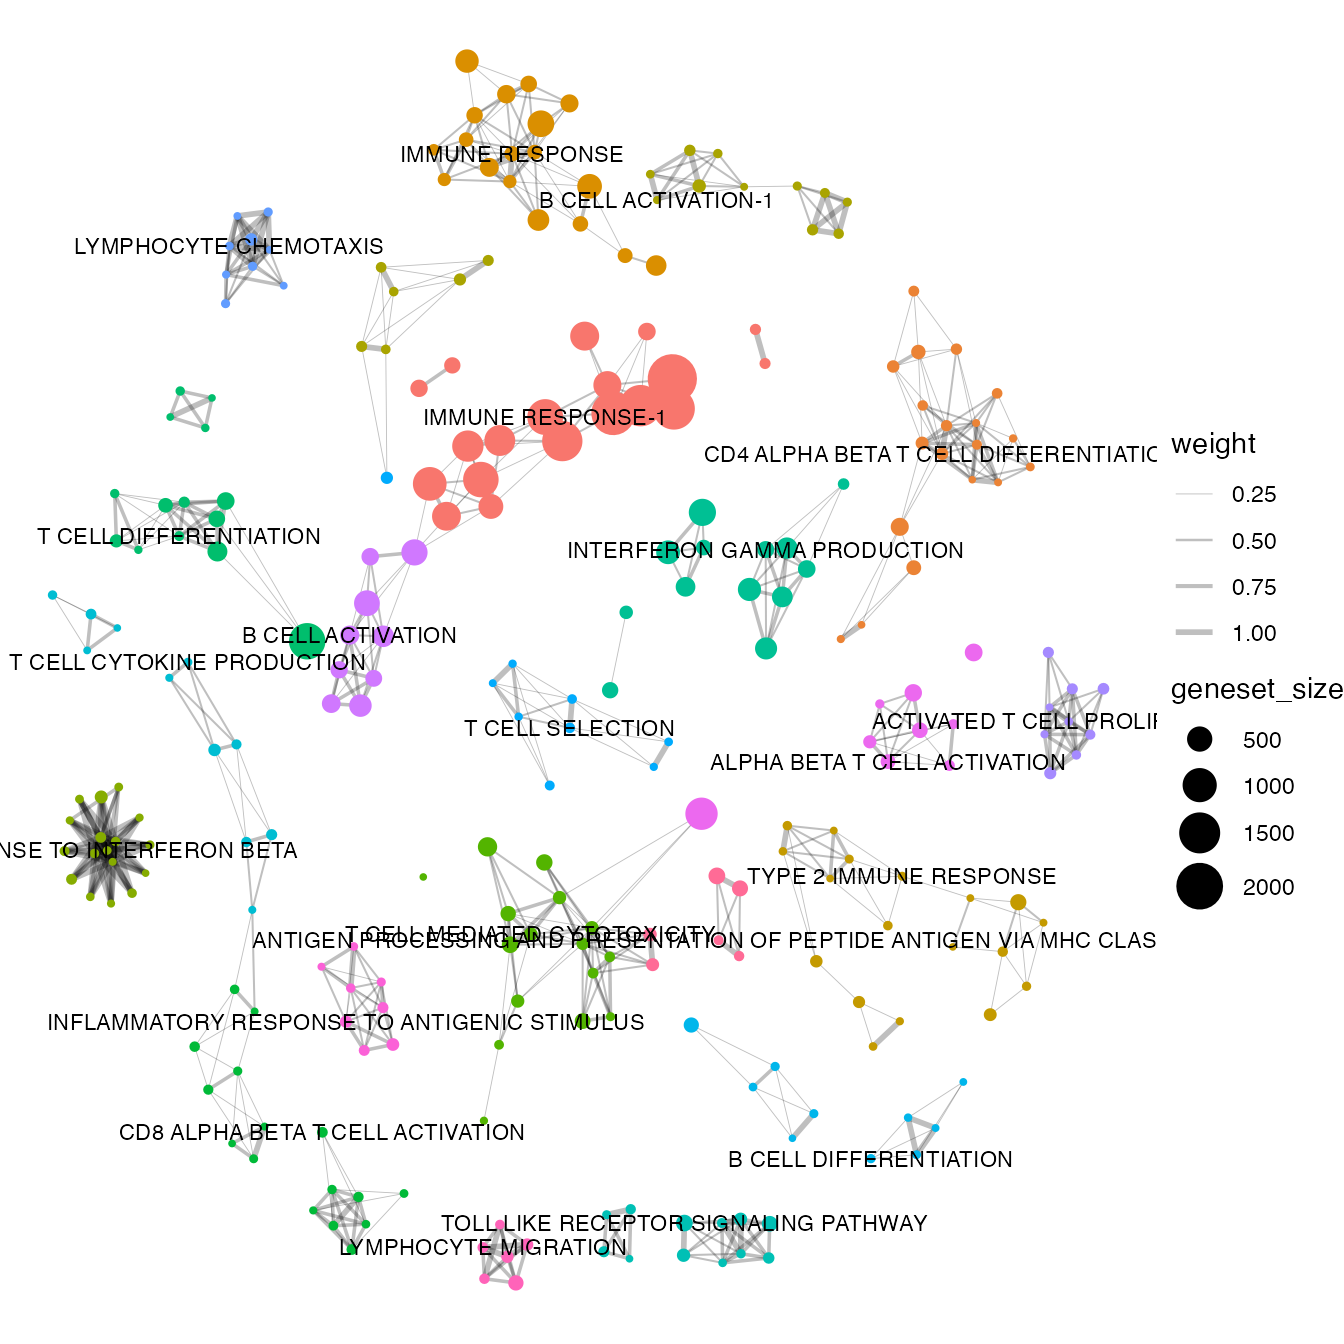
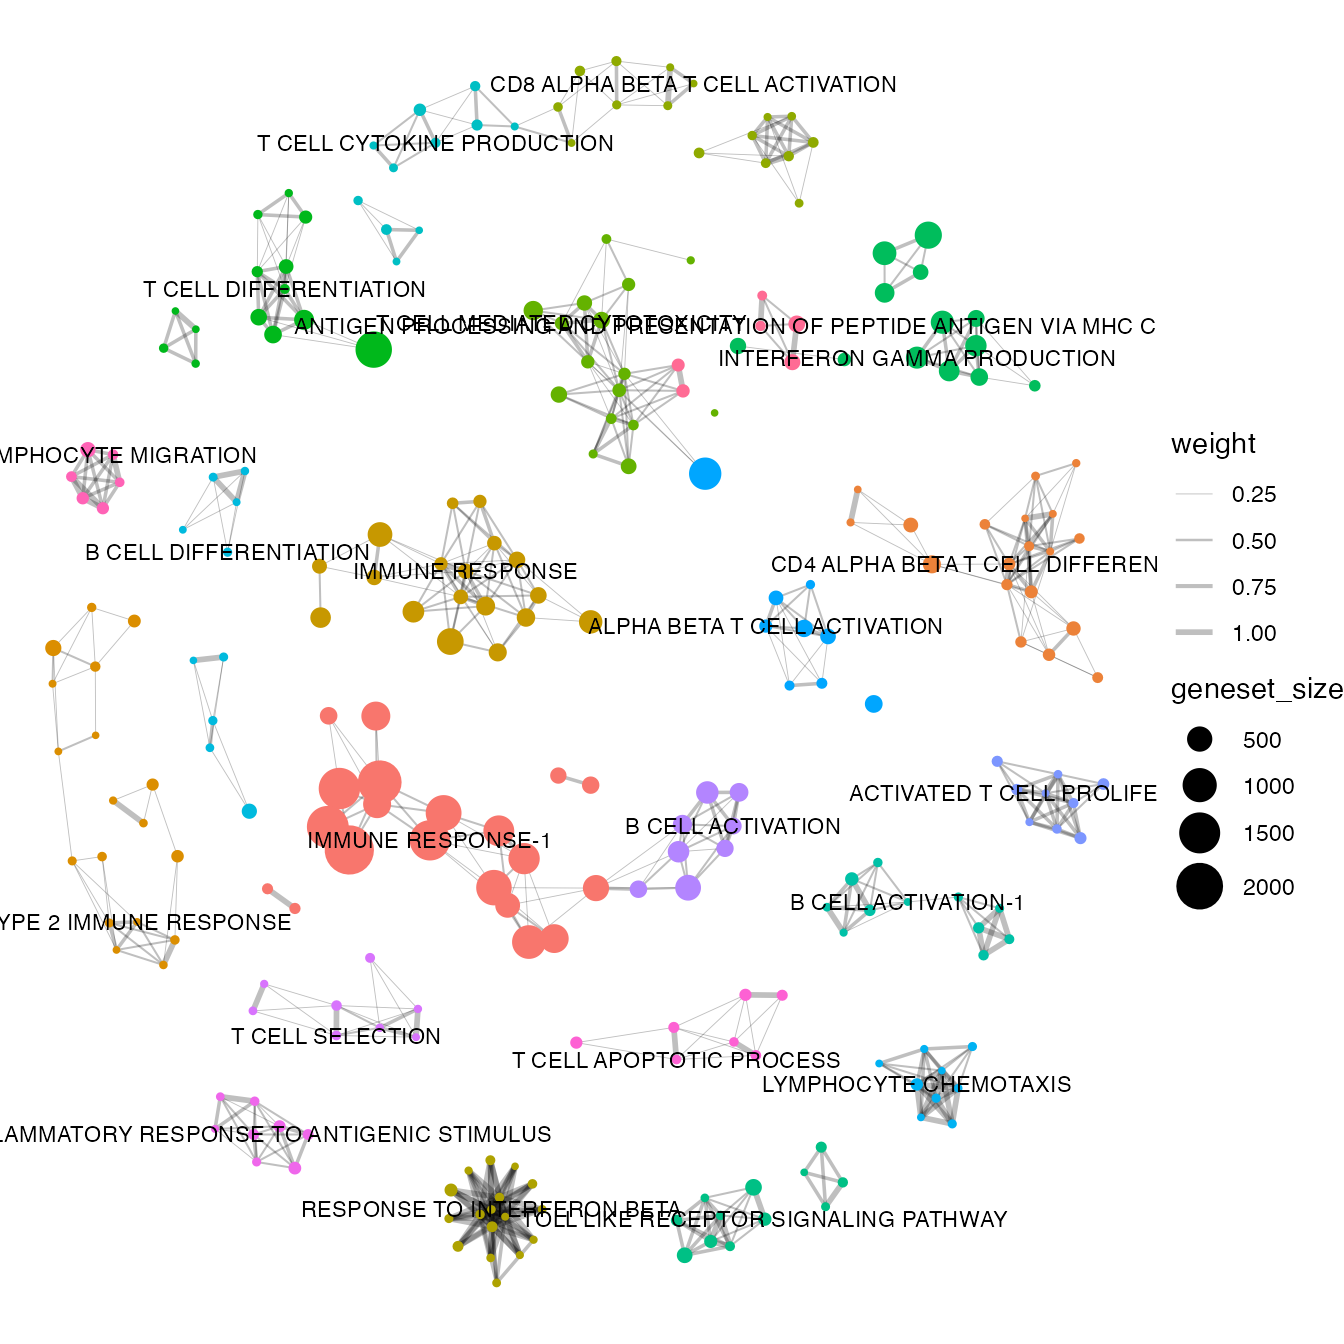
Built site for bowerbird: 0.0.2@b9dc863

Changed region(s): [[0.0, 0.0312, 0.8438, 0.9688]]

diff --git a/articles/bowerbird_vignette.html b/articles/bowerbird_vignette.html
@@ -160,12 +160,12 @@
 <span class="va">bwr</span> <span class="op">&lt;-</span> <span class="fu"><a href="../reference/snn_graph.html">snn_graph</a></span><span class="op">(</span><span class="va">bwr</span><span class="op">)</span>
 <span class="va">bwr</span> <span class="op">&lt;-</span> <span class="fu"><a href="../reference/find_clusters.html">find_clusters</a></span><span class="op">(</span><span class="va">bwr</span><span class="op">)</span>
 <span class="va">bwr</span> <span class="op">&lt;-</span> <span class="fu">summarize_clusters</span><span class="op">(</span><span class="va">bwr</span><span class="op">)</span>
-<span class="co">#&gt; Downloading udpipe model from https://raw.githubusercontent.com/jwijffels/udpipe.models.ud.2.5/master/inst/udpipe-ud-2.5-191206/english-ewt-ud-2.5-191206.udpipe to /var/folders/24/8k48jl6d249_n_qfxwsl6xvm0000gn/T//RtmpDNYoTR/english-ewt-ud-2.5-191206.udpipe</span>
+<span class="co">#&gt; Downloading udpipe model from https://raw.githubusercontent.com/jwijffels/udpipe.models.ud.2.5/master/inst/udpipe-ud-2.5-191206/english-ewt-ud-2.5-191206.udpipe to /var/folders/24/8k48jl6d249_n_qfxwsl6xvm0000gn/T//RtmpmIrCO3/english-ewt-ud-2.5-191206.udpipe</span>
 <span class="co">#&gt;  - This model has been trained on version 2.5 of data from https://universaldependencies.org</span>
 <span class="co">#&gt;  - The model is distributed under the CC-BY-SA-NC license: https://creativecommons.org/licenses/by-nc-sa/4.0</span>
 <span class="co">#&gt;  - Visit https://github.com/jwijffels/udpipe.models.ud.2.5 for model license details.</span>
 <span class="co">#&gt;  - For a list of all models and their licenses (most models you can download with this package have either a CC-BY-SA or a CC-BY-SA-NC license) read the documentation at ?udpipe_download_model. For building your own models: visit the documentation by typing vignette('udpipe-train', package = 'udpipe')</span>
-<span class="co">#&gt; Downloading finished, model stored at '/var/folders/24/8k48jl6d249_n_qfxwsl6xvm0000gn/T//RtmpDNYoTR/english-ewt-ud-2.5-191206.udpipe'</span></code></pre></div>
+<span class="co">#&gt; Downloading finished, model stored at '/var/folders/24/8k48jl6d249_n_qfxwsl6xvm0000gn/T//RtmpmIrCO3/english-ewt-ud-2.5-191206.udpipe'</span></code></pre></div>
 <p>Or extracting from <code>msigdbr</code>.</p>
 <div class="sourceCode" id="cb7"><pre class="downlit sourceCode r">
 <code class="sourceCode R"><span class="kw"><a href="https://rdrr.io/r/base/library.html">library</a></span><span class="op">(</span><span class="va"><a href="https://igordot.github.io/msigdbr/">msigdbr</a></span><span class="op">)</span>
@@ -181,50 +181,51 @@
 <span class="va">bwr</span> <span class="op">&lt;-</span> <span class="fu"><a href="../reference/snn_graph.html">snn_graph</a></span><span class="op">(</span><span class="va">bwr</span><span class="op">)</span>
 <span class="va">bwr</span> <span class="op">&lt;-</span> <span class="fu"><a href="../reference/find_clusters.html">find_clusters</a></span><span class="op">(</span><span class="va">bwr</span><span class="op">)</span>
 <span class="va">bwr</span> <span class="op">&lt;-</span> <span class="fu">summarize_clusters</span><span class="op">(</span><span class="va">bwr</span><span class="op">)</span>
-<span class="co">#&gt; Downloading udpipe model from https://raw.githubusercontent.com/jwijffels/udpipe.models.ud.2.5/master/inst/udpipe-ud-2.5-191206/english-ewt-ud-2.5-191206.udpipe to /var/folders/24/8k48jl6d249_n_qfxwsl6xvm0000gn/T//RtmpDNYoTR/english-ewt-ud-2.5-191206.udpipe</span>
+<span class="co">#&gt; Downloading udpipe model from https://raw.githubusercontent.com/jwijffels/udpipe.models.ud.2.5/master/inst/udpipe-ud-2.5-191206/english-ewt-ud-2.5-191206.udpipe to /var/folders/24/8k48jl6d249_n_qfxwsl6xvm0000gn/T//RtmpmIrCO3/english-ewt-ud-2.5-191206.udpipe</span>
 <span class="co">#&gt;  - This model has been trained on version 2.5 of data from https://universaldependencies.org</span>
 <span class="co">#&gt;  - The model is distributed under the CC-BY-SA-NC license: https://creativecommons.org/licenses/by-nc-sa/4.0</span>
 <span class="co">#&gt;  - Visit https://github.com/jwijffels/udpipe.models.ud.2.5 for model license details.</span>
 <span class="co">#&gt;  - For a list of all models and their licenses (most models you can download with this package have either a CC-BY-SA or a CC-BY-SA-NC license) read the documentation at ?udpipe_download_model. For building your own models: visit the documentation by typing vignette('udpipe-train', package = 'udpipe')</span>
-<span class="co">#&gt; Downloading finished, model stored at '/var/folders/24/8k48jl6d249_n_qfxwsl6xvm0000gn/T//RtmpDNYoTR/english-ewt-ud-2.5-191206.udpipe'</span></code></pre></div>
+<span class="co">#&gt; Downloading finished, model stored at '/var/folders/24/8k48jl6d249_n_qfxwsl6xvm0000gn/T//RtmpmIrCO3/english-ewt-ud-2.5-191206.udpipe'</span></code></pre></div>
 <p>So what has actually happened? Well, basically <code>bowerbird</code> has learnt which gene sets share more genes with each other, clustered them together and learnt a new summary term.</p>
 <div class="sourceCode" id="cb8"><pre class="downlit sourceCode r">
 <code class="sourceCode R"><span class="va">bwr</span>
 <span class="co">#&gt; BOWER class</span>
 <span class="co">#&gt; number of genesets:  265 </span>
 <span class="co">#&gt; genesets kNN Graph: </span>
-<span class="co">#&gt; IGRAPH 0b166b7 UNW- 265 843 -- </span>
+<span class="co">#&gt; IGRAPH a4f67f9 UNW- 265 843 -- </span>
 <span class="co">#&gt; + attr: name (v/c), cluster (v/n), geneset_size (v/n), terms (v/c),</span>
 <span class="co">#&gt; | labels (v/c), weight (e/n)</span>
-<span class="co">#&gt; + edges from 0b166b7 (vertex names):</span>
+<span class="co">#&gt; + edges from a4f67f9 (vertex names):</span>
 <span class="co">#&gt; [1] GOBP_ACTIVATED_T_CELL_PROLIFERATION--GOBP_CD8_POSITIVE_ALPHA_BETA_T_CELL_DIFFERENTIATION          </span>
 <span class="co">#&gt; [2] GOBP_ACTIVATED_T_CELL_PROLIFERATION--GOBP_NEGATIVE_REGULATION_OF_ACTIVATED_T_CELL_PROLIFERATION   </span>
 <span class="co">#&gt; [3] GOBP_ACTIVATED_T_CELL_PROLIFERATION--GOBP_NEGATIVE_REGULATION_OF_LYMPHOCYTE_DIFFERENTIATION       </span>
 <span class="co">#&gt; [4] GOBP_ACTIVATED_T_CELL_PROLIFERATION--GOBP_NEGATIVE_REGULATION_OF_T_CELL_RECEPTOR_SIGNALING_PATHWAY</span>
 <span class="co">#&gt; [5] GOBP_ACTIVATION_OF_IMMUNE_RESPONSE --GOBP_ACTIVATION_OF_INNATE_IMMUNE_RESPONSE                    </span>
 <span class="co">#&gt; + ... omitted several edges</span>
-<span class="co">#&gt; number of geneset clusters:  21 </span>
+<span class="co">#&gt; number of geneset clusters:  22 </span>
 <span class="co">#&gt; Core genes:</span>
 <span class="co">#&gt;  First six genes shown</span>
 <span class="co">#&gt;   IMMUNE RESPONSE-1 : AIM2 BCL10 BTRC CARD11 CARD9 CD209 ...</span>
 <span class="co">#&gt;   CD4 ALPHA BETA T CELL DIFFERENTIATION : ANXA1 ATP7A BATF BCL3 BCL6 CBFB ...</span>
-<span class="co">#&gt;   IMMUNE RESPONSE : CLNK HLA-E HLA-F IFNA2 IFNB1 IL18 ...</span>
 <span class="co">#&gt;   TYPE 2 IMMUNE RESPONSE : IL4 PLCL2 TLR4 IL18 IL18R1 IL4R ...</span>
-<span class="co">#&gt;   B CELL ACTIVATION-1 : ADA BAX BCL6 BLK BTK CD74 ...</span>
+<span class="co">#&gt;   IMMUNE RESPONSE : CLNK HLA-E HLA-F IFNA2 IFNB1 IL18 ...</span>
 <span class="co">#&gt;   RESPONSE TO INTERFERON BETA : BCL2L11 HIF1A MEF2C ADA SOS1 SOS2 ...</span>
-<span class="co">#&gt;   T CELL MEDIATED CYTOTOXICITY : HLA-A HLA-B HLA-C HLA-E HLA-F HLA-G ...</span>
 <span class="co">#&gt;   CD8 ALPHA BETA T CELL ACTIVATION : HLA-E GATA3 ADCYAP1 BTK C3 CCR7 ...</span>
+<span class="co">#&gt;   T CELL MEDIATED CYTOTOXICITY : HLA-A HLA-B HLA-C HLA-E HLA-F HLA-G ...</span>
 <span class="co">#&gt;   T CELL DIFFERENTIATION : FCGR2B FGL2 HLA-DOA LILRB2 THBS1 BMP4 ...</span>
 <span class="co">#&gt;   INTERFERON GAMMA PRODUCTION : ABCB9 ACE ACTR10 ACTR1A ACTR1B AP1B1 ...</span>
 <span class="co">#&gt;   TOLL LIKE RECEPTOR SIGNALING PATHWAY : CACTIN PTPRS TICAM1 TLR3 TLR4 TLR9 ...</span>
+<span class="co">#&gt;   B CELL ACTIVATION-1 : ADA BAX BCL6 BLK BTK CD74 ...</span>
 <span class="co">#&gt;   T CELL CYTOKINE PRODUCTION : KLRC1 LILRB1 NOD2 PTPRC EGR3 LEF1 ...</span>
 <span class="co">#&gt;   B CELL DIFFERENTIATION : IL10 TLR9 SYK ADA BCL3 C17orf99 ...</span>
-<span class="co">#&gt;   T CELL SELECTION : TOX BCL2 BATF CTSL FOXP3 IL12B ...</span>
 <span class="co">#&gt;   LYMPHOCYTE CHEMOTAXIS : CCL2 CCL3 CCL4 CCL5 CCL7 CXCL14 ...</span>
-<span class="co">#&gt;   ACTIVATED T CELL PROLIFERATION : LILRB4 CD24 CD274 FYN HHLA2 ICOSLG ...</span>
-<span class="co">#&gt;   B CELL ACTIVATION : ADA ADAM17 BATF BCL3 BCL6 BTK ...</span>
 <span class="co">#&gt;   ALPHA BETA T CELL ACTIVATION : AGER ANXA1 ARG2 ATP7A BATF BCL3 ...</span>
+<span class="co">#&gt;   ACTIVATED T CELL PROLIFERATION : LILRB4 CD24 CD274 FYN HHLA2 ICOSLG ...</span>
+<span class="co">#&gt;   B CELL ACTIVATION : BATF BCL3 BCL6 BTK C17orf99 CCR6 ...</span>
+<span class="co">#&gt;   T CELL SELECTION : TOX BCL2 BATF CTSL FOXP3 IL12B ...</span>
 <span class="co">#&gt;   INFLAMMATORY RESPONSE TO ANTIGENIC STIMULUS : BTK C3 CD28 HLA-E LTA NOD2 ...</span>
+<span class="co">#&gt;   T CELL APOPTOTIC PROCESS : ADA AKT1 BAK1 BAX BCL10 BCL2L11 ...</span>
 <span class="co">#&gt;   LYMPHOCYTE MIGRATION : ADAM10 ADAM17 ADAM8 AIF1 APP CCL20 ...</span>
 <span class="co">#&gt;   ANTIGEN PROCESSING AND PRESENTATION OF PEPTIDE ANTIGEN VIA MHC CLASS I : ABCB9 AZGP1 B2M ERAP1 ERAP2 HFE ...</span></code></pre></div>
 <p>We can visualise it with a simple plot</p>
